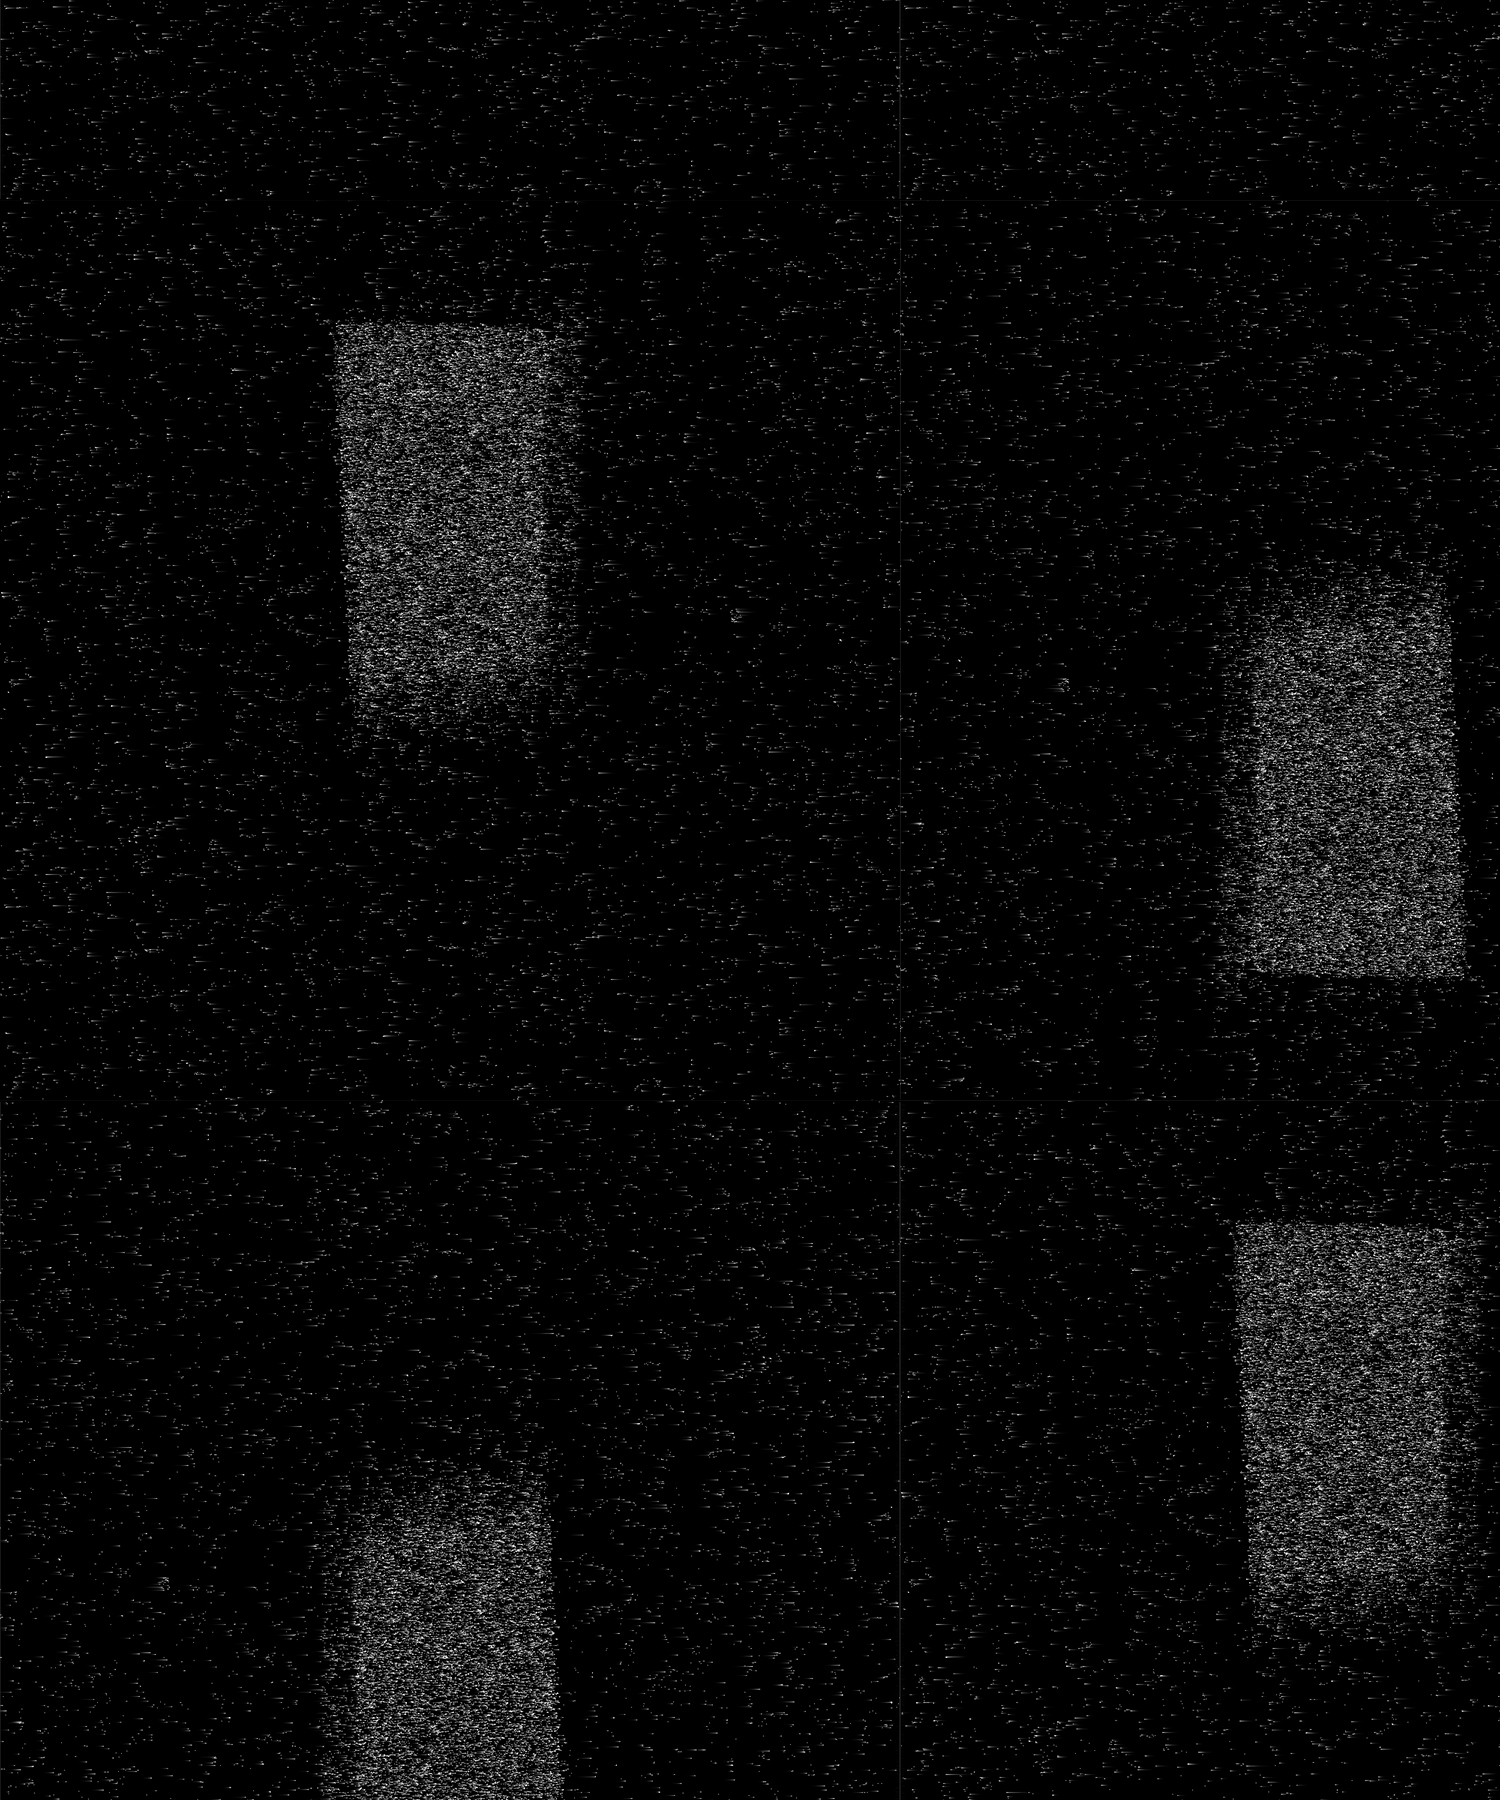
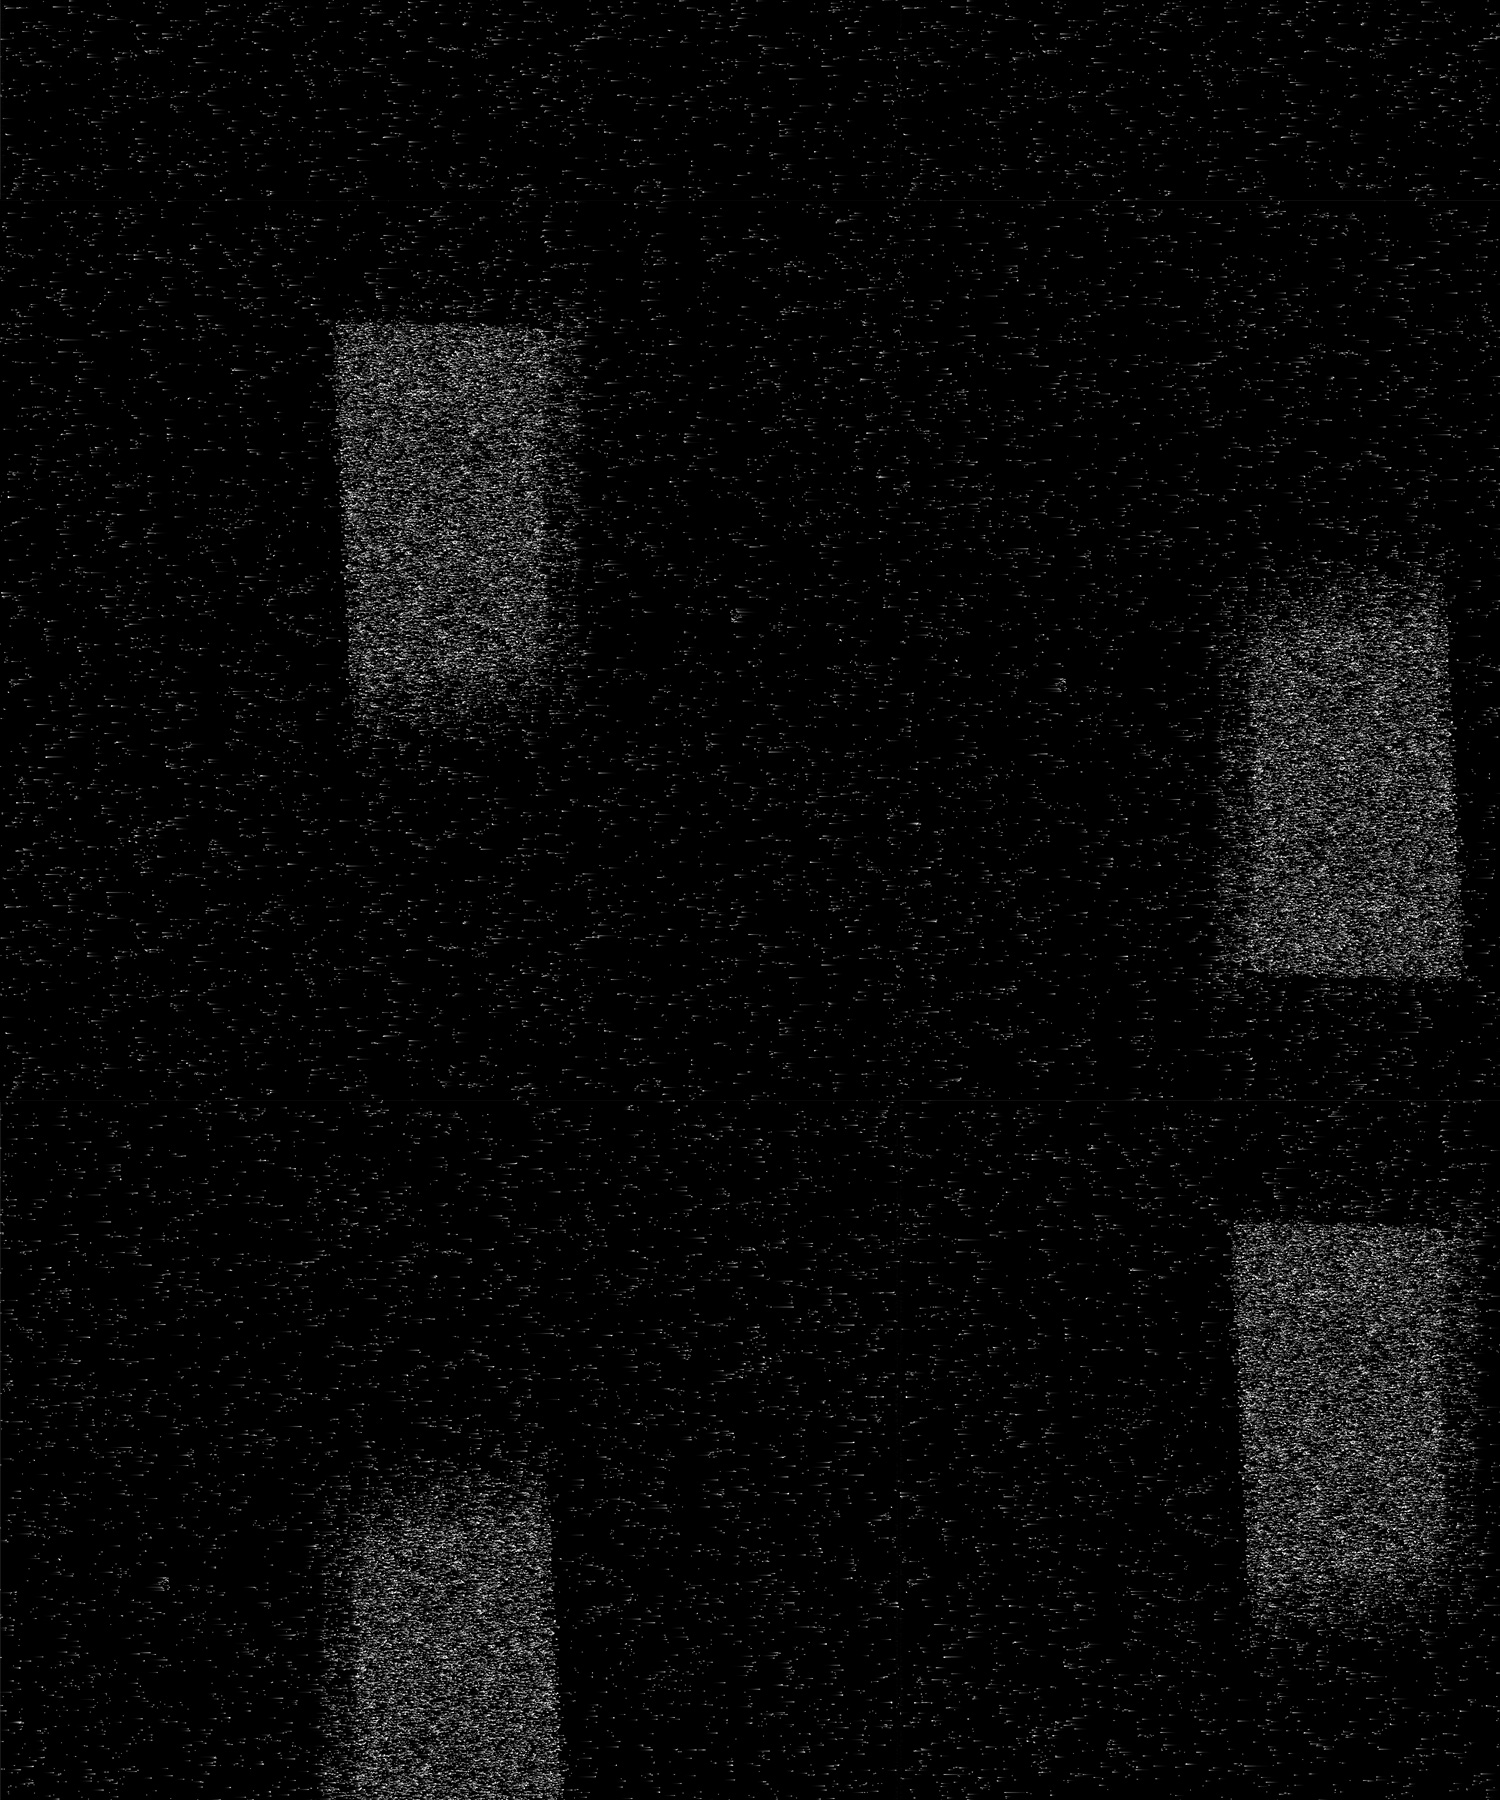
test load time with larger background

Changed region(s): [[0.7973, 0.6533, 1.0, 0.9333], [0.7973, 0.3111, 0.9813, 0.56]]

diff --git a/pages/index.js b/pages/index.js
@@ -23,7 +23,7 @@ export default function Home() {
         {/* <Consent /> */}
       </Head>
 
-      <main className={ `${ styles.main } m-auto relative bg-[url('/menu_background_1000x1800.jpg')]` }>
+      <main className={ `${ styles.main } m-auto relative bg-[url('/menu_background_1500x1800.jpg')]` }>
         <div className='relative'>
         <div className='m-auto pt-40 w-11/12 sm:w-[520px] lg:w-[600px]'>
             <EmailSignup />
